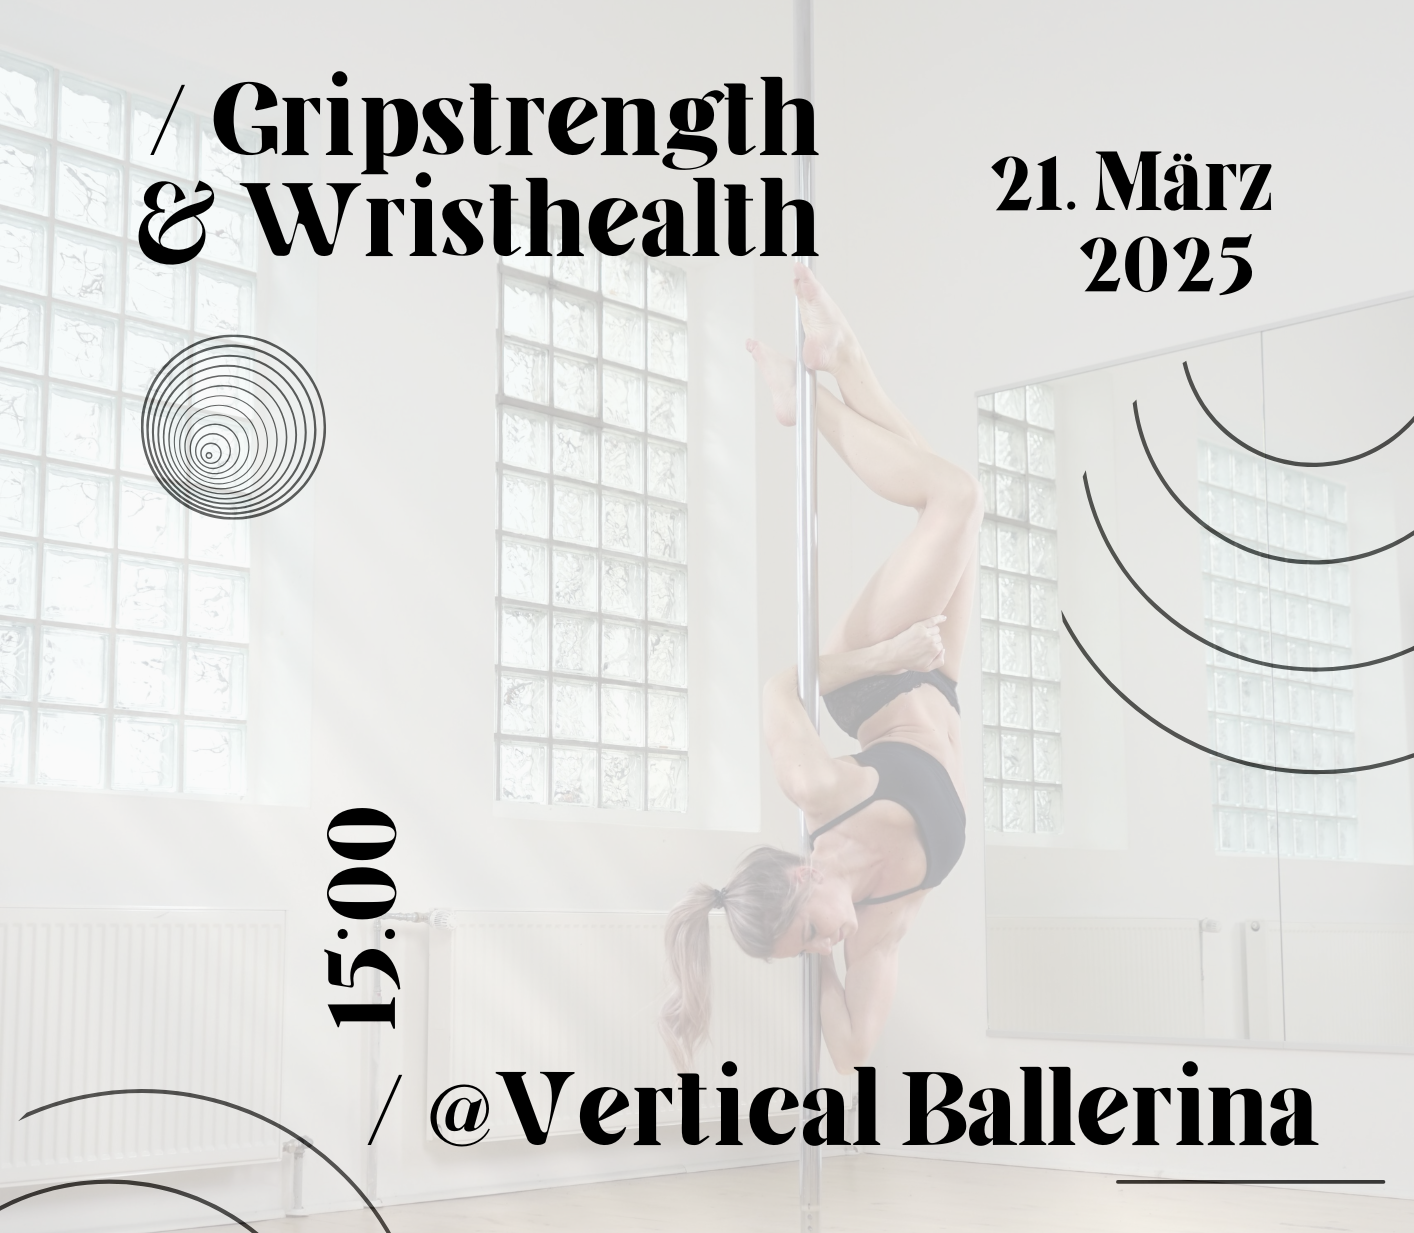
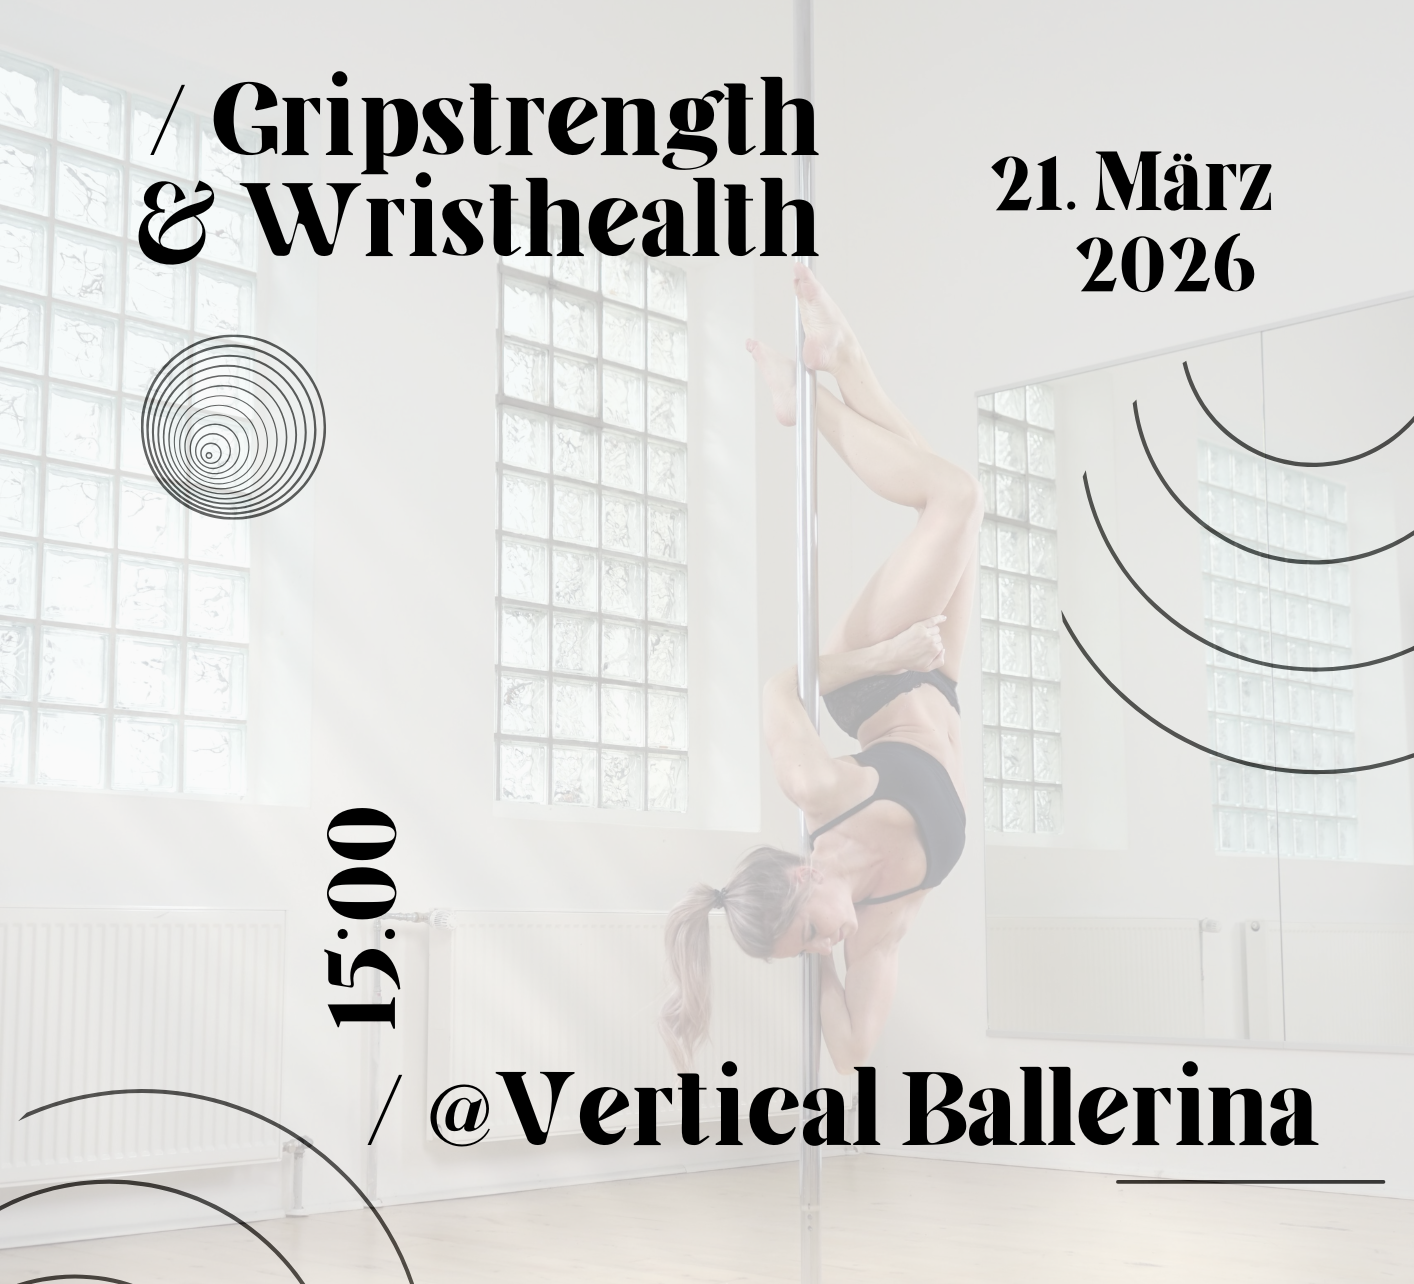
healthy hips anpassung

diff --git a/openworkshps.html b/openworkshps.html
@@ -280,29 +280,24 @@
 
 							<h2>
 								
-								<span class="lang-en active"><strong>Gripstrength & Wristhealth in Poledance</strong></span>
-								<span class="lang-de"><strong>Griffkraft & Handgelenksgesundheit im Poledance</strong></span>
-								<img src="images/pole.png" alt="Kinesiotaping Workshop" class="workshop-image">
+								<span class="lang-en active"><strong>Training and Rehab for Healthy Hips</strong></span>
+								<span class="lang-de"><strong>Training and Rehab for Healthy Hips</strong></span>
+								<img src="images/Healthyhips.png" alt="Healthy Hips" class="workshop-image">
 							</h2>
 							
 							<div class="lang-en active">
 								<h4>What you can expect:</h4>
 									<ul>
 										<li>
-											noticeably better grip quality and holding strength
+											Understanding the hips – Learn about the key muscles and how to target them effectively
 										</li>
 										<li>
-											stronger, more resilient wrists
+											Move better – Coordination and mobilisation exercises for greater flexibility and joint health
 										</li>
 										<li>
-											reduced overload and pain in hands and forearms
+											 Put it into practice straight away – A floor mobilisation routine you can incorporate into your daily routine immediately
 										</li>
-										<li>
-											increased control and confidence in static and dynamic moves
-										</li>
-										<li>
-											practical tools you can integrate into warm-ups and regular training
-										</li>
+										
 									</ul>
 									
 												
@@ -312,20 +307,15 @@
 											<h4>Darauf kannst du dich freuen:</h4>
 											<ul>
 												<li>
-												spürbar bessere Griffqualität und Haltekraft
+												Hüfte verstehen – Lerne die wichtigsten Muskeln kennen und wie du sie gezielt ansteuerst
 												</li>
 												<li>
-													stabilere, belastbarere Handgelenke
+													Besser bewegen – Koordinations- & Mobilisationsübungen für mehr Beweglichkeit und Gelenkgesundheit
 												</li>
 												<li>
-													weniger Überlastungsschmerzen an Hand & Unterarm
+													Direkt anwenden – Eine Floor Mobilisation Routine, die du sofort in deinen Alltag integrieren kannst
 												</li>
-												<li>
-													mehr Kontrolle und Sicherheit bei statischen & dynamischen Moves
-												</li>
-												<li>
-													praktische Tools für Warm-up und Training
-												</li>
+												
 											</ul>
 
 											
@@ -338,7 +328,7 @@
 							
 							<div class="expandable-content" id="section2">
 								<div class="price-info">
-									<div class="price-amount">€25 p.P.</div>
+									<div class="price-amount">€30 p.P.</div>
 									<div class="price-description">
 										<span class="lang-en active">90 min</span>
 										<span class="lang-de">90 min</span>
@@ -348,19 +338,12 @@
 								<div class="additional-info">
 									<div class="lang-en active">
 										<p>
-											We’ll take a closer look at the three key nerves of the hand — median, ulnar, and radial nerve — and how they influence gripping, holding, and fine motor control. Using simple assessments, you’ll learn how to identify possible limitations and apply targeted nerve gliding and mobilization techniques to improve function.
-
-											The workshop combines short, easy-to-understand theory with plenty of hands-on practice. All exercises are immediately applicable, pole-compatible, and suitable for both beginners and advanced dancers.
-
-											Perfect for anyone who wants to build functional grip strength, protect their wrists, and stay healthy and resilient on the pole long-term.
+											The hips form the foundation of every movement – and yet they are one of the most frequently neglected parts of the body. In this workshop, you will learn how to specifically train and mobilise your hips and keep them healthy in the long term. Together, we’ll look at the main muscle groups of the hip and develop an understanding of how to consciously engage and activate them. You’ll learn coordination exercises that promote neuromuscular coordination, as well as targeted mobilisation exercises that release restricted movement and support joint health. The session concludes with a practical floor mobilisation routine – a sequence on the floor that you can integrate directly into your daily life or your training.
 											<br><br><strong>Location: </strong><a href="https://share.google/AiKx0M1IReGqe1jdX">Vertical Ballerina</a> ,  Hohenzollernstraße 60, 80801 München</p>
 								</div>
 								<div class="lang-de">
-									<p>Wir schauen uns die drei wichtigsten Nerven der Hand (Medianus, Ulnaris, Radialis) an und wie sie Greifen, Halten und Feinsteuerung beeinflussen. Mit einfachen Assessments erkennst du mögliche Einschränkungen und lernst gezielte Nervengleit- und Mobilisationstechniken, um diese zu verbessern.
-
-										Der Workshop kombiniert kurze, verständliche Theorieimpulse mit viel Praxis. Alle Übungen sind sofort anwendbar, pole-kompatibel und sowohl für Anfänger:innen als auch Fortgeschrittene geeignet.
-
-										Ideal für alle, die ihre Griffkraft funktionell entwickeln, ihre Handgelenke schützen und langfristig gesund an der Pole bleiben möchten.
+									<p>Die Hüfte ist das Fundament jeder Bewegung – und gleichzeitig eine der am häufigsten vernachlässigten Körperregionen. In diesem Workshop lernst du, wie du deine Hüfte gezielt trainierst, mobilisierst und langfristig gesund hältst.
+										Gemeinsam schauen wir uns die primären Muskelgruppen der Hüfte an und erarbeiten ein Verständnis dafür, wie man sie bewusst ansteuert und aktiviert. Du lernst koordinative Übungen, die das neuromuskuläre Zusammenspiel fördern, sowie gezielte Mobilisationsübungen, die Bewegungseinschränkungen lösen und die Gelenkgesundheit unterstützen. Den Abschluss bildet eine praktische Floor Mobilisation Routine – eine Sequenz am Boden, die du direkt in deinen Alltag oder dein Training integrieren kannst.
 										<br><br><strong>Location: </strong><a href="https://share.google/AiKx0M1IReGqe1jdX">Vertical Ballerina</a> ,  Hohenzollernstraße 60, 80801 München</p>
 								</div>
 									<div class="booking-note">

diff --git a/form.html b/form.html
@@ -436,7 +436,8 @@
 								<div class="col-12">
 									<textarea name="demo-message" id="demo-message" rows="4" style="background-color: white;"></textarea>
 								</div>
-								<br><br>
+								<br>
+								<br>*You will get an confirmation mail within 24h.
 								<div class="col-12">
 									<ul class="actions">
 										<li><input type="submit" value="" class="primary" id="submitBtn" /></li>
@@ -568,10 +569,10 @@
 			// Workshop dates configuration
 			const workshopDates = {
 				en: [
-					{ value: "2026-03-21", text: "Gripstrength & Wristhealth  21.03.2026 |15:00-16:30 | 25€ " }
+					{ value: "2026-05-30", text: "Healthy Hips  30.05.2026 |15:00-16:30 | 30€ " }
 				],
 				de: [
-					{ value: "2026-03-21", text: "Griffkraft & Handgelenksgesundheit 21.03.2026 |15:00-16:30 | 25€ " }
+					{ value: "2026-05-30", text: "Healthy Hips 30.05.2026 |15:00-16:30 | 30€ " }
 				]
 			};
 